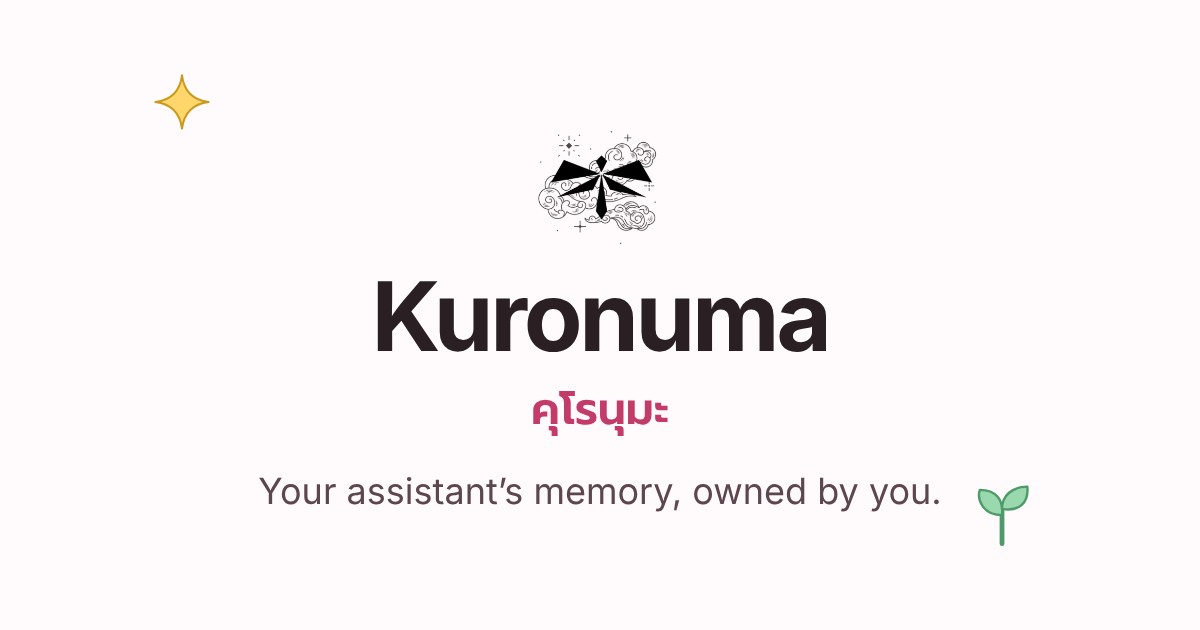
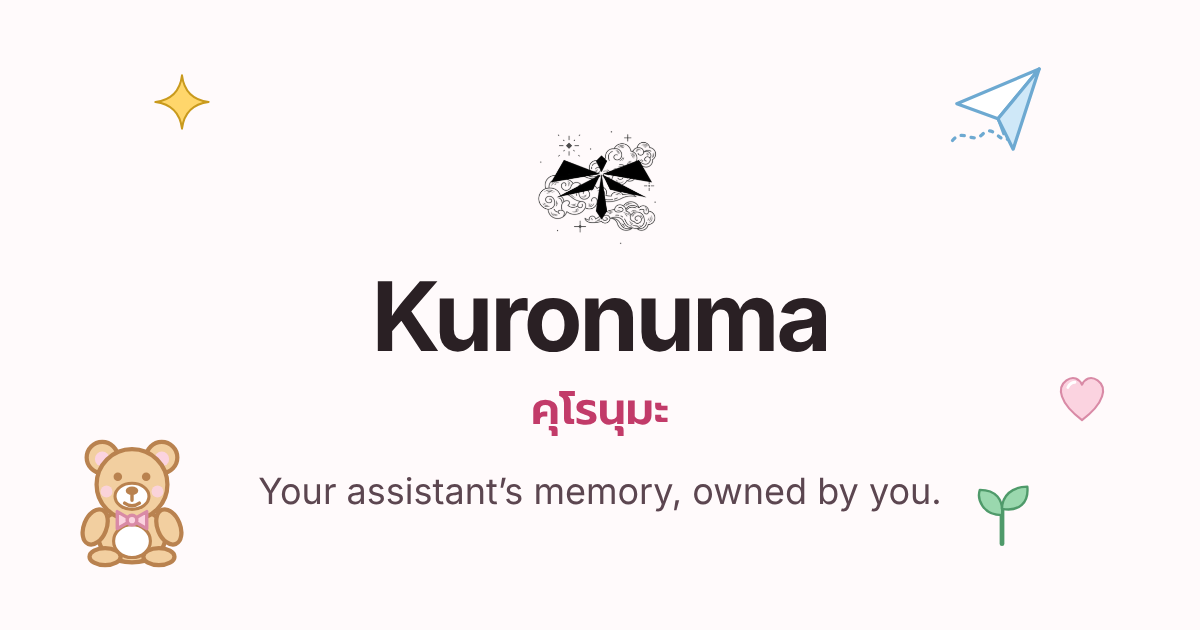
feat(cerberus): use the paper plane on the error page and refresh the share image

Changed region(s): [[0.0617, 0.6937, 0.1542, 0.9048], [0.8017, 0.1206, 0.8633, 0.2413], [0.8633, 0.6032, 0.925, 0.6635]]

diff --git a/apps/api/internal/core/cerberus/consent.go b/apps/api/internal/core/cerberus/consent.go
@@ -223,11 +223,12 @@ const (
 	colSurface    = "#fdf0f4"
 )
 
-// Two small original motifs, drawn inline because the page's security policy allows no scripts and loads
+// Three small original motifs, drawn inline because the page's security policy allows no scripts and loads
 // nothing but our own images. They are decoration: hidden from assistive technology and never focusable.
 const (
 	motifSparkle = `<svg aria-hidden="true" focusable="false" width="30" height="30" viewBox="0 0 48 48"><path d="M24 4 C25.5 16 32 22.5 44 24 C32 25.5 25.5 32 24 44 C22.5 32 16 25.5 4 24 C16 22.5 22.5 16 24 4Z" fill="#ffd66b" stroke="#c99a1d" stroke-width="1.5" stroke-linejoin="round" stroke-linecap="round"/></svg>`
 	motifSprout  = `<svg aria-hidden="true" focusable="false" width="30" height="30" viewBox="0 0 48 48"><path d="M24 44 V22" fill="none" stroke="#4f9a6a" stroke-width="3" stroke-linecap="round"/><path d="M24 26 C12 26 8 16 10 10 C20 10 25 16 24 26Z" fill="#9ad8ae" stroke="#4f9a6a" stroke-width="1.5" stroke-linejoin="round" stroke-linecap="round"/><path d="M24 22 C24 14 30 8 40 8 C41 18 35 24 24 22Z" fill="#9ad8ae" stroke="#4f9a6a" stroke-width="1.5" stroke-linejoin="round" stroke-linecap="round"/></svg>`
+	motifPlane   = `<svg aria-hidden="true" focusable="false" data-motif="plane" width="40" height="40" viewBox="0 0 48 48"><path d="M3 39 C8 33 12 41 17 36 S25 41 29 38" fill="none" stroke="#6da9d1" stroke-width="1.5" stroke-linecap="round" stroke-dasharray="1.5 3.2"/><path d="M5 22 L43 6 L24 29Z" fill="#ffffff" stroke="#6da9d1" stroke-width="1.5" stroke-linejoin="round" stroke-linecap="round"/><path d="M43 6 L24 29 L31 43Z" fill="#cfe8f8" stroke="#6da9d1" stroke-width="1.5" stroke-linejoin="round" stroke-linecap="round"/><path d="M24 29 L26.6 36" fill="none" stroke="#6da9d1" stroke-width="1.2" stroke-linecap="round"/></svg>`
 )
 
 // pageStyle is shared by the consent and error pages. The page's security policy allows no scripts or fonts, so it
@@ -306,4 +307,4 @@ var errorTmpl = template.Must(template.New("error").Parse(`<!doctype html>
 <title>Kuronuma</title>
 <style>` + pageStyle + `</style></head><body><main>
 <header><a class="brand" href="/"><img src="/brand/kuronuma-logo.png" width="44" height="44" alt=""><span>KURONUMA</span></a></header>
-<div class="card"><div class="deco">` + motifSparkle + `</div><p>{{.}}</p></div></main></body></html>`))
+<div class="card"><div class="deco">` + motifPlane + `</div><p>{{.}}</p></div></main></body></html>`))

diff --git a/apps/api/internal/core/cerberus/consent_test.go b/apps/api/internal/core/cerberus/consent_test.go
@@ -251,6 +251,8 @@ func TestErrorPageHasAMotif(t *testing.T) {
 		t.Errorf("error page has %d <svg> elements, want 1", n)
 	}
 	mustContain(t, body, `<svg aria-hidden="true"`)
+	mustContain(t, body, `data-motif="plane"`)
+	mustNotContain(t, body, "M24 4 C25.5") // the sparkle's path: the error page uses the paper plane now
 	mustNotContain(t, body, "<script")
 }
 

diff --git a/docs/design.md b/docs/design.md
@@ -54,7 +54,7 @@ docs/
 
 - **Names:** Kuronuma (คุโรนุมะ) is the name used in the UI, copy, repository (`kuronuma-mcp`), MCP server and cookies (`kuro_session`, `kuro_flow`). The database name, database user and Compose project name stay `nemosyne` so the data volume is not orphaned (see `deploy/docker-compose.yml`). <!-- [keep-nemosyne] -->
 - **Logo:** the owner's illustration (a geometric dragonfly among clouds, black ink on transparent). The web app shows it at 28 px next to the wordmark in the header and footer, and at 80 px on the sign-in card and the closing call to action; the source image is 256 px, so it is never rendered larger than that. The favicon is `app/icon.png`.
-- **Theme and design system:** the Blush look: a warm white page (`#fffafb`), near-black plum ink (`#2a2024`), one raspberry action colour (`#c23b69`), soft pink surfaces (`#fdf0f4`) and borders (`#efd3dd`), pill-shaped buttons, large-radius cards (20 to 32 px) and no gradients. Styling is Tailwind CSS v4 on shadcn/ui-style components (`apps/web/components/ui/`: Button, Card, Badge, Input, Tabs on Radix, Alert, Skeleton, and an Accordion on native `<details>`). Colour tokens, including the four motif colours (`--motif-*`), are CSS variables in the `:root` block of `apps/web/app/globals.css`. `npm run check:design` in `apps/web` enforces hex colours only in that block, no gradients, the pinned background and primary values, and WCAG contrast for every text pair (main ink 7:1, other text and button labels at least 4.5:1, large-only text and focus rings 3:1). The consent and error pages served by the API use the same colours as Go constants and a test checks their contrast. Typefaces, self-hosted via `@fontsource` (no requests to Google Fonts): Inter for all UI text, Geist Mono for URLs and code. Prompt follows Inter for Thai glyphs; Thai headings are never tracked tighter. Six small original SVG motifs (sparkle, sprout, cloud, letter, petal, star) decorate the landing page and are always `aria-hidden`, never focusable and never over text.
+- **Theme and design system:** the Blush look: a warm white page (`#fffafb`), near-black plum ink (`#2a2024`), one raspberry action colour (`#c23b69`), soft pink surfaces (`#fdf0f4`) and borders (`#efd3dd`), pill-shaped buttons, large-radius cards (20 to 32 px) and no gradients. Styling is Tailwind CSS v4 on shadcn/ui-style components (`apps/web/components/ui/`: Button, Card, Badge, Input, Tabs on Radix, Alert, Skeleton, and an Accordion on native `<details>`). Colour tokens, including the four motif colours (`--motif-*`), are CSS variables in the `:root` block of `apps/web/app/globals.css`. `npm run check:design` in `apps/web` enforces hex colours only in that block, no gradients, the pinned background and primary values, and WCAG contrast for every text pair (main ink 7:1, other text and button labels at least 4.5:1, large-only text and focus rings 3:1). The consent and error pages served by the API use the same colours as Go constants and a test checks their contrast. Typefaces, self-hosted via `@fontsource` (no requests to Google Fonts): Inter for all UI text, Geist Mono for URLs and code. Prompt follows Inter for Thai glyphs; Thai headings are never tracked tighter. Twenty-two small original SVG motifs are always `aria-hidden`, never focusable and never over text; see "Motifs and where they go" below.
 - **Positioning:** Kuronuma is a memory for your AI assistant. Spending (Plutus) is the first module attached to it, not the product. Copy only describes what is built; modules that are not built are labeled "Coming soon".
 - **Motion (landing page and shared components):** the hero enters in a short stagger; motifs twinkle or drift slowly; sections fade up as they scroll into view; feature, module and step cards lift and show a sparkle on hover; the main buttons get a flat shimmer on hover (on every page that uses them); tab panels fade in; FAQ answers open with a smooth height change. Hover effects apply only on devices that can hover. Everything is off under `prefers-reduced-motion`, and content stays visible without JavaScript. Because gradients are banned, the link underline fades in by colour instead of sliding in. `@view-transition` cross-fades full page loads only; client-side `<Link>` navigation does not animate. No animation library is used.
 - **Letter field:** about 14 faint paper letters (8 below 640 px) drift behind every page and ease away from a mouse pointer (`components/LetterField.tsx`, physics in `lib/letter-physics.ts`). Letters are drawn at 18 to 28% opacity: above 28%, muted text or a link crossed by a letter's outline would fall below 4.5:1. The layer is fixed, behind the content, `aria-hidden` and click-through; touch screens get drift only; under reduced motion the letters are drawn once and never move. It is the only continuous script animation: one `requestAnimationFrame` loop that writes only `transform` and stops while the tab is hidden. Low-end phones will feel it first; if it ever shows jank, lower the letter count in `LetterField.tsx`.
@@ -148,3 +148,32 @@ Tools: `list_memories` (`atlas:read`), `add_memory` and `update_memory` (`atlas:
 ## Mission
 
 Spending is where Kuronuma starts. The mission is to make Kuronuma a good memory for more kinds of data you want your assistant to keep: tasks (Atlas), routines (Horae) and work data (Hephaestus), and to get better at organising what it already stores (for example, grouping spending by who you paid). These are goals, not release dates. A module is described as available only when it works. The landing page has a matching "Mission" section.
+
+## Motifs and where they go
+
+The motifs live in `apps/web/components/motifs/`: sparkle, sprout, cloud, letter, petal and star, plus teddy, plane, heart, moon, bunny, cat, cupcake, strawberry, balloon, rainbow, daisy, bird, teacup, mushroom, bow and pencil. All are original drawings on a 48 by 48 grid, coloured only through the `--motif-*` tokens. The Go pages use inline copies with literal colours.
+
+**Rules.** Three sizes only: a spot (64 or 96 px), an accent (32 px, 36 on module cards) and a micro (20 px, used in dividers). Each section gets at most one spot, placed in the normal flow and never over text. Accents come in mirrored pairs, only from the `lg` breakpoint up, in empty corners. No more than five decorative motifs are visible at once (the falling-letter background does not count). Pages where people read or edit data stay calm: a populated dashboard shows none, and motifs appear only in sign-in, unreachable, empty and no-match states. Motion is on the landing page only, and none of it runs under reduced motion. `Spot` and `Accents` in `components/motifs/Spot.tsx` implement these rules.
+
+**Map.**
+
+| Place | Motif |
+|---|---|
+| Landing: demo | teddy with a small plane |
+| Landing: how it works | plane |
+| Landing: features | heart |
+| Landing: modules (card corners) | Plutus strawberry, Atlas pencil, Horae moon, Hephaestus mushroom |
+| Landing: mission | rainbow |
+| Landing: privacy | cat |
+| Landing: FAQ | teacup |
+| Landing: closing band (`lg` and up) | bunny and balloon |
+| Dividers | sparkle with a rotating middle: sprout, bow, daisy, bird |
+| Connect page | plane above the heading, bird above "Then just ask." |
+| Dashboard sign-in | bow and sparkle beside the logo |
+| Dashboard unreachable | plane |
+| Overview empty | bunny |
+| Spending empty / Tasks empty | cupcake / pencil |
+| No filter match | mushroom |
+| 404 page | bunny |
+| Error page (API) | plane |
+| Share image (`og.png`) | teddy, plane, heart, sparkle, sprout |
